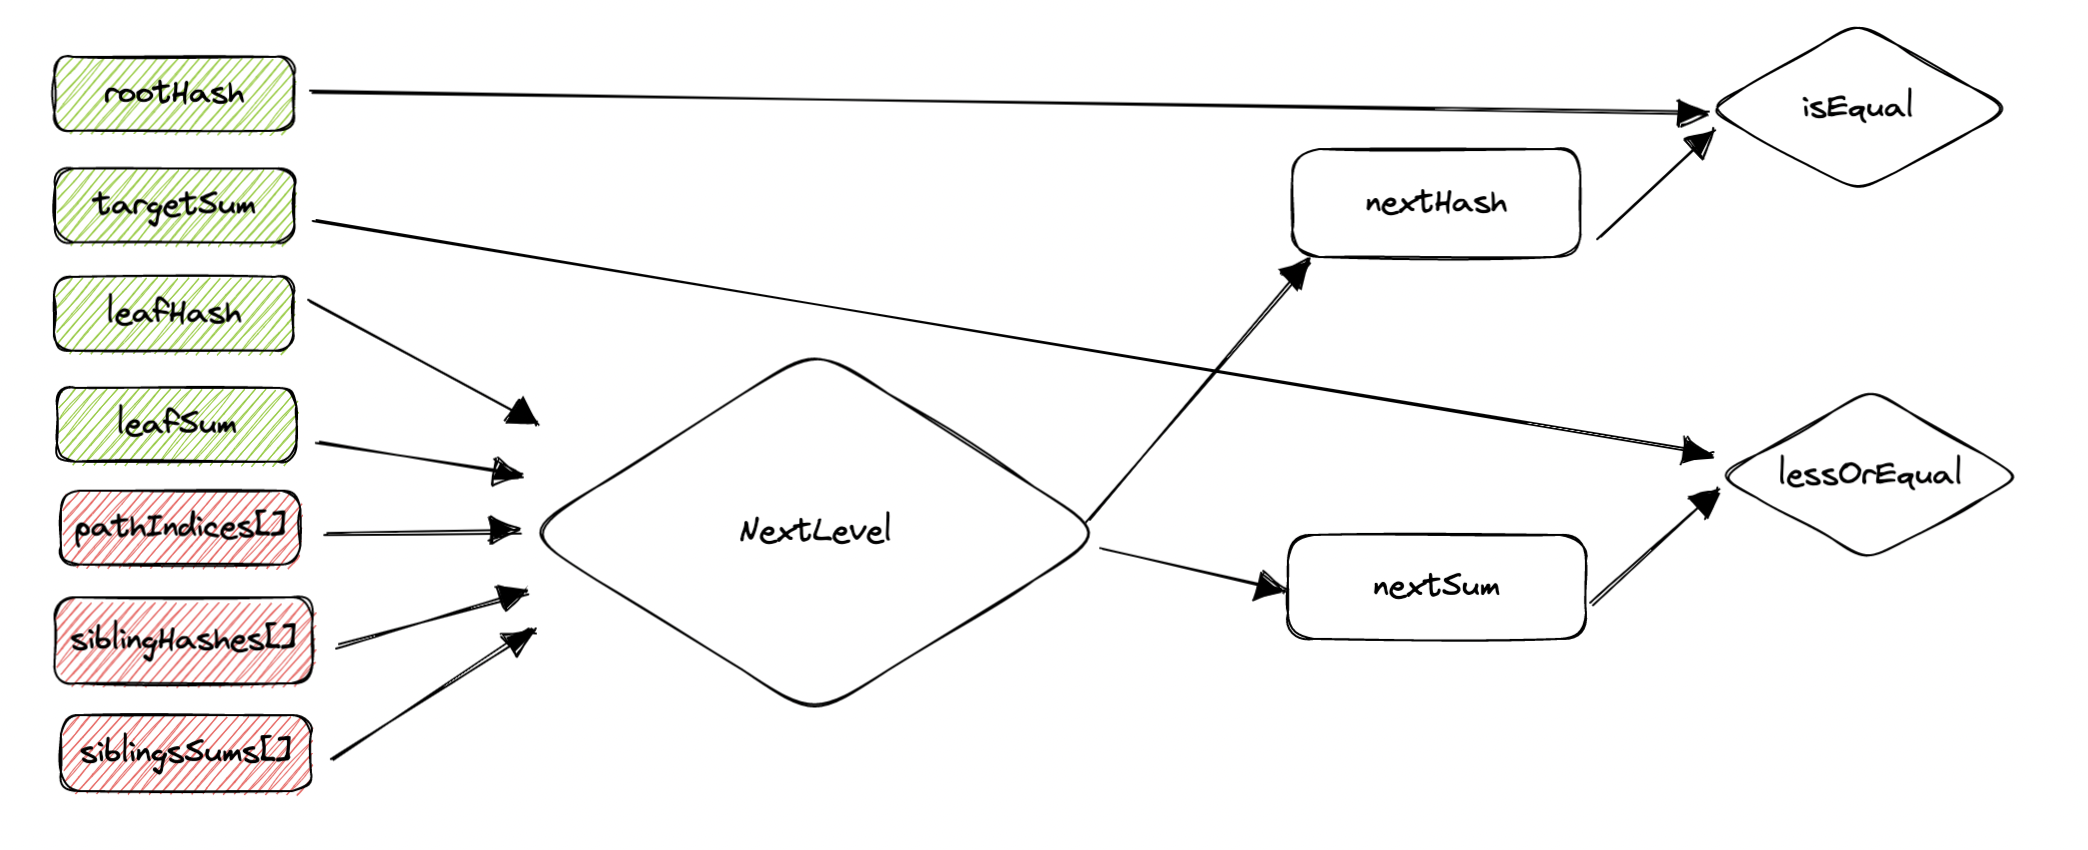
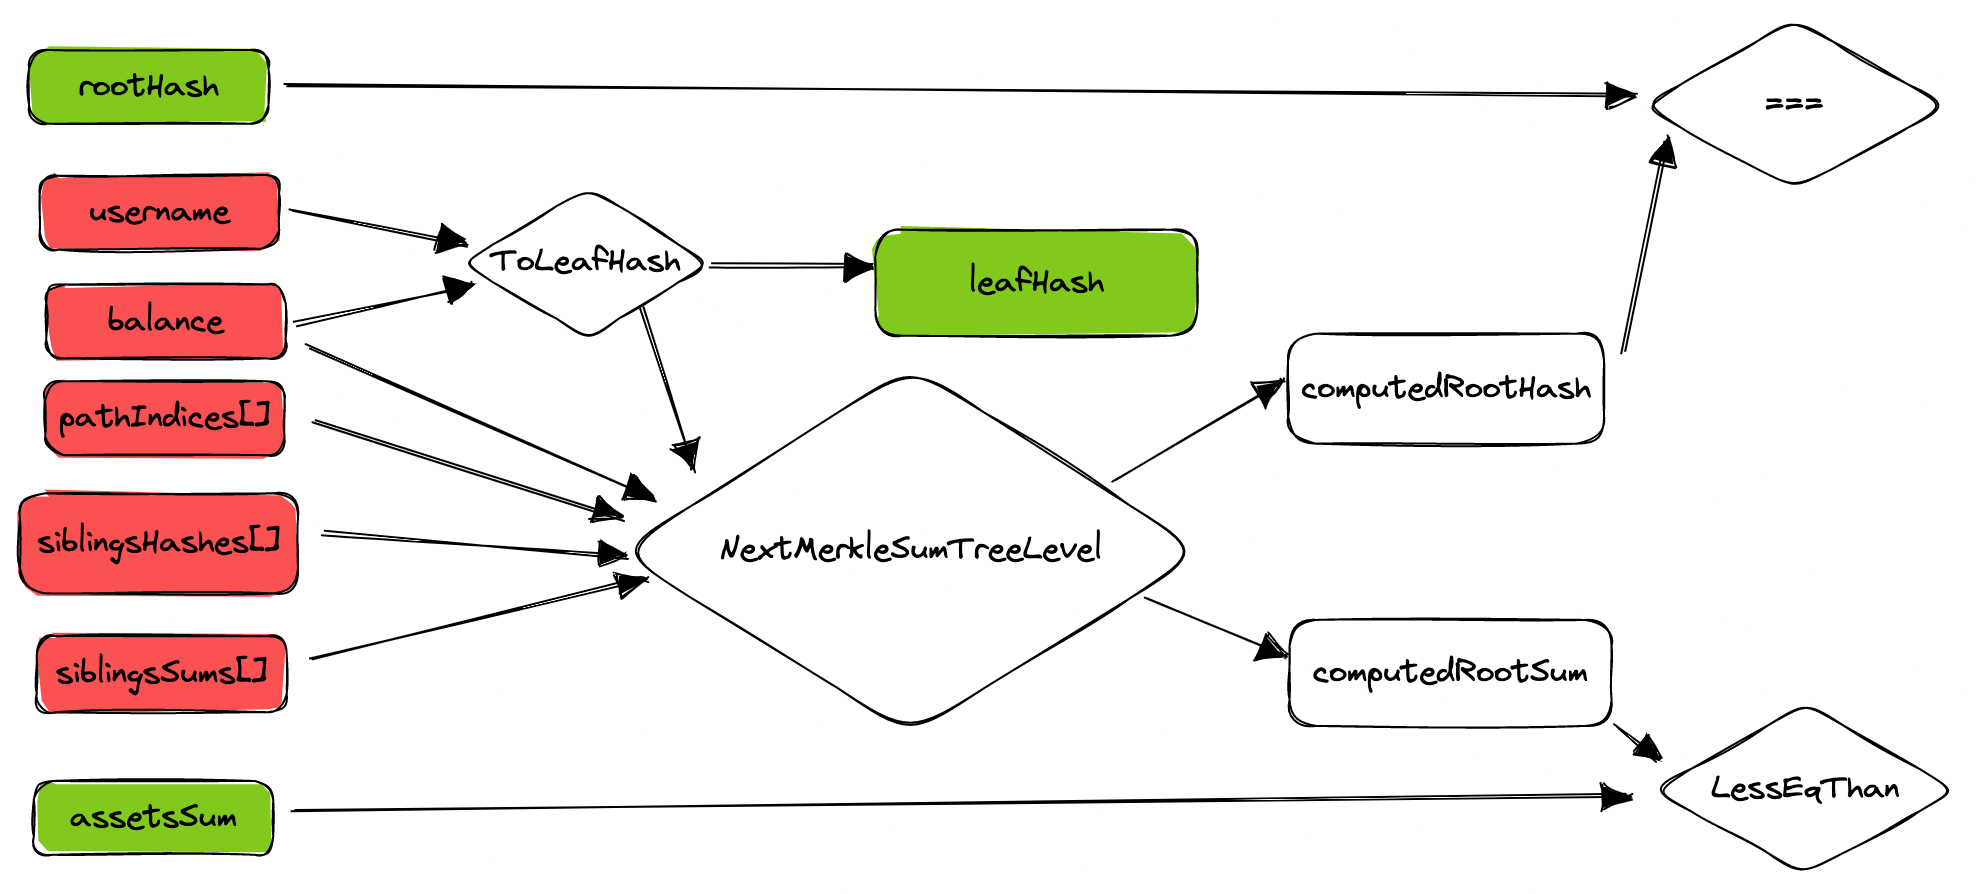
update read me

diff --git a/README.md b/README.md
@@ -1,55 +1,65 @@
-# Proof of Solvency - prover
+# pyt-circuits 
 
-zkSNARK proving system for Proof Of Solvency.
+Circuits for Proof Of Solvency.
 
-The zkSNARK proving system consists in a circuit, written in circom, that enforces the rules that the Exchange must abide by when generating a Proof Of Solvency for a specific user. 
+The circuit, written in circom, enforces the rules that the Exchange must abide by when generating a Proof Of Solvency for a specific user. 
 
 The circuit checks that: 
 
 	- A user-balance entry has been included in the Merkle Sum Tree
 	- The computation of the sum going from the user's entry to the root has been performed correctly
 	- No sum overflow happened during the computation
-	- The total of the entries in the tree (namely the total liabilities of an exchange) is equal or less than the total sum of the assets of the exchange
+	- The computed sum (namely the total liabilities of an exchange) is less or equal to the total sum of the assets of the exchange
 	
-The prover system garantees fully-credibile proof while preserving the privacy of CEX Busienss Intelligence data such as:
+The prover system guarantees credible and self-auditable proof while preserving the secrecy of the Exchange's business information such as:
 
 - Number of users of the exchanges
 - Users balances 
 - Siblings partial sum balances 
 - Total liabilities of the exchange
 
-The prover relies on [TS-Merkle-Sum-Tree Library](https://github.com/pan-y-tomate/ts-merkle-sum-tree) for the merkle Sum tree operations.
+The prover relies on [pyt-merkle-sum-tree](https://github.com/pan-y-tomate/pyt-merkle-sum-tree) for the Merkle Sum tree operations.
 
 ## Circuit Design 
 
 | Input                          | Description              | Public or Private
 | -----------                    | -----------          |  ----------
-| rootHash                      | Root Hash of the Merkle Sum Tree committed by the exchange              | Public
-| targetSum             | The total assets that the Exchange claims to have   | Public
-| leafHash     | The hash of the leaf `H(username, balance)` that contains the data of the user to which the proof is being generated for| Public
-| leafSum    | The balance of the user to which the proof is being generater for                 | Public
+| rootHash                      | Root Hash of the Merkle Sum Tree publicly committed by the exchange              | Public
+| username     | The username (in BigInt format) of user to which the proof is being generated for| Private
+| balance    | The balance of the user to which the proof is being generated for                 | Private
 | pathIndices[nLevels]               | A bit array that contains the path to the user leaf inside the Merkle Sum Tree              | Private
 | siblingHashes[nLevels]                | Array of hashes of the siblings of the user leaf                | Private
 | siblingsSums[nLevels] | Array of sum-balances of the siblings of the user leaf                 | Private
+| assetsSum             | The total assets that the Exchange claims to have   | Public
 
-The nextLevel component recursively computes the current `hash` (for the first level it is the `leafHash`), the current `sum` (for the first level it is the `leafSum`), the current `siblingHash` and the current `siblingSum`. The output of the nextLevel component are the `nextHash` and the `nextSum`. These are calculated as follows:
+| Output                          | Description              | Public or Private
+| -----------                    | -----------          |  ----------
+| leafHash                      | Poseidon Hash `H(username,balance)`              | Public (by default)
+
+![circuit illustration](./imgs/pos.png)
+
+The `ToLeafHash` component performs the poseidon hash of the `username` and the `balance` and outputs the `leafHash`. The `leafHash` is then used as the first `hash` in the `NextMerkleSumTreeLevel` component.
+
+The `NextMerkleSumTreeLevel` component recursively computes the current `hash` (for the first level it is the `leafHash`), the current `sum` (for the first level it is the `balance`), the current `siblingHash` and the current `siblingSum`. The output of the nextLevel component are the `nextHash` and the `nextSum`. These are calculated as follows:
 
 - `nextHash = H(hash, sum, siblingHash, siblingSum)` if the pathIndex is 0, where H is the poseidon hash function
 - `nextHash = H(siblingHash, siblingSum, hash, sum)` if the pathIndex is 1, where H is the poseidon hash function
 - `nextSum = sum + siblingSum`
 
-After the last level is being computed, the circuit checks that the `nextHash` is equal to the `rootHash` and that the `nextSum` is lessOrEqual to the `targetSum`.
+After the last level is computed, the circuit checks that the `nextHash` is equal to the `rootHash` and that the `nextSum` is `LessEqThan` the `assetsSum`.
 
-![circuit illustration](./imgs/pos.png)
+Further circuit components not shown in the circuit diagram are:
+
+- `SafeSum`, ensures that no overflow happens during the computation of the sum
+- `SafeLessEqThan`, safely compare two n-bit numbers avoiding overflows
 
 ## Checks to be executed outside the circuit
 
-A proof generated using the circuit, even if verified, doesn't ensure that the prover is solvent. Further checks must be on the public inputs of the circuit to ensure that the prover is solvent. These checks are:
+A proof generated using the circuit, even if verified, doesn't ensure that the prover is solvent. Further checks must be on the public signals of the circuit to ensure that the prover is solvent. These checks are:
 
-- The `rootHash` must be the root hash of the Merkle Sum Tree committed by the exchange on a Public Bulletin Board
-- The `targetSum` must be the total assets of the exchange. The way in which the exchange generates its proof of assets is out of the scope of this project.
-- The `leafHash` must be the hash of the leaf `H(username, balance)` that contains the data of the user to which the proof is being generated for
-- The `leafSum` must be the balance of the user to which the proof is being generater for
+- The `rootHash` (input of the circuit) must be the root hash of the Merkle Sum Tree committed by the exchange on a Public Bulletin Board
+- The `assetsSum` (input of the circuit) must be the total assets of the exchange. The way in which the exchange generates its proof of assets is out of the scope of this project.
+- The `leafHash` (output of the circuit) must equal to `H(username, balance)` that contains the data of the user to which the proof is being generated for
 
 ## Build
 
